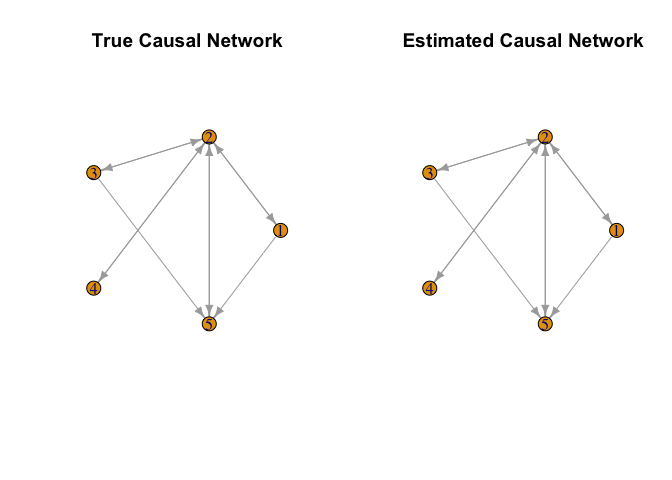
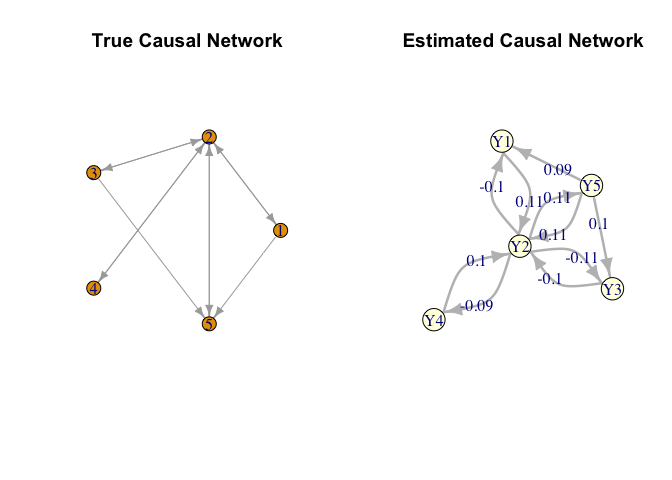
Update the graph output in RGM which now gives only the causal network between responses.

Changed region(s): [[0.625, 0.25, 0.9375, 0.6875], [0.625, 0.3438, 0.6875, 0.375]]

diff --git a/README.md b/README.md
@@ -276,9 +276,7 @@ plot(smaller_arrowheads(igraph::graph_from_adjacency_matrix((A != 0) * 1,
           main = "True Causal Network")
 
 # Plot the estimated causal network
-plot(smaller_arrowheads(igraph::graph_from_adjacency_matrix(Output1$zAEst,
-      mode = "directed")), layout = igraph::layout_in_circle,
-         main = "Estimated Causal Network")
+plot(Output1$Graph, main = "Estimated Causal Network")
 ```
 
 <img src="man/figures/README-unnamed-chunk-8-1.png" width="100%" />
@@ -563,8 +561,7 @@ plot(smaller_arrowheads(igraph::graph_from_adjacency_matrix((A != 0) * 1, mode =
      layout = igraph::layout_in_circle, main = "True Causal Network")
 
 # Plot the estimated causal network
-plot(smaller_arrowheads(igraph::graph_from_adjacency_matrix(Output$zAEst, mode = "directed")),
-     layout = igraph::layout_in_circle, main = "Estimated Causal Network")
+plot(Output$Graph, main = "Estimated Causal Network")
 ```
 
 <img src="man/figures/README-unnamed-chunk-13-1.png" width="100%" />
